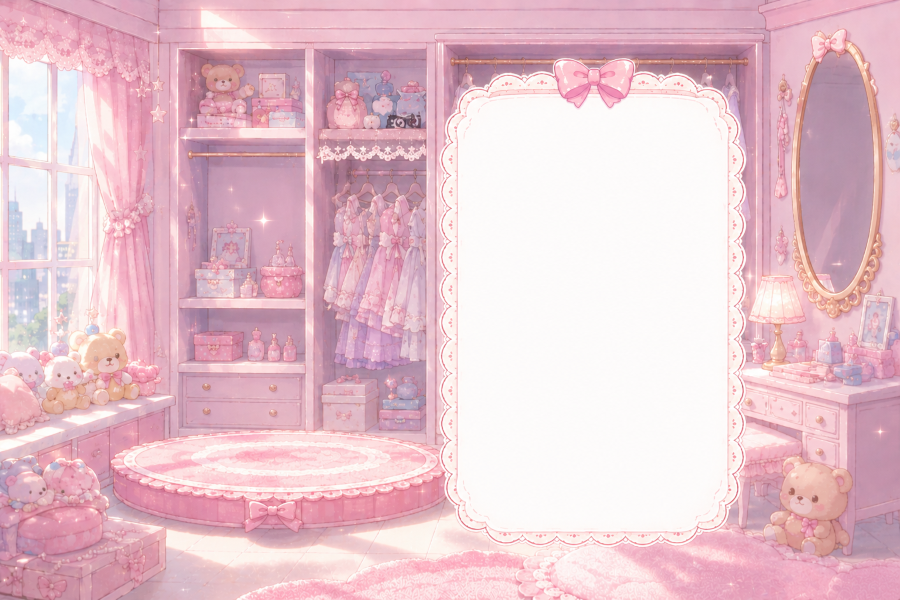
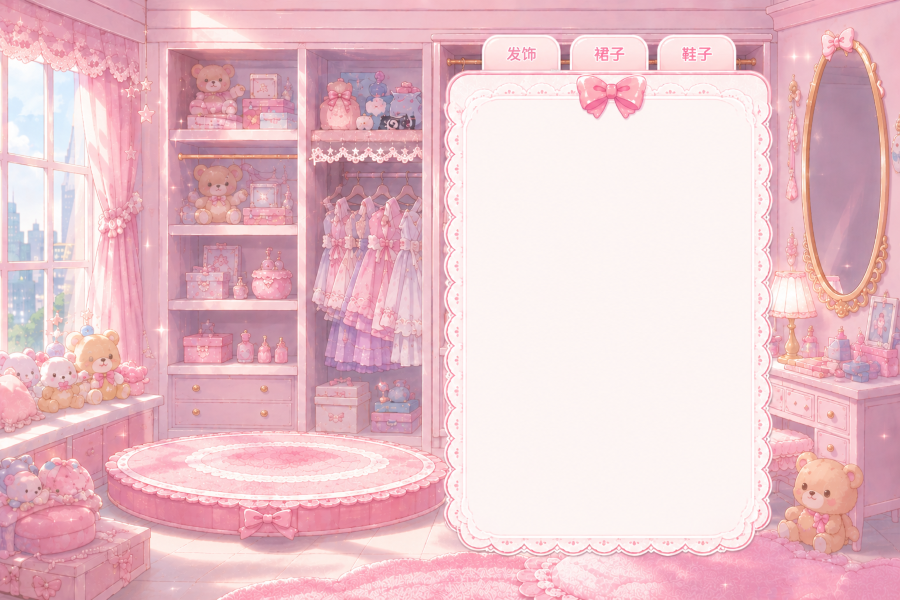
优化衣柜美观度

diff --git a/mainwindow.cpp b/mainwindow.cpp
@@ -40,29 +40,62 @@ MainWindow {
 
 
 
-    // 加深版衣柜磨砂（原始正常代码，恢复它！）
     ui->tabWidget->setStyleSheet(R"(
-    QTabWidget{background:transparent; border:none;}
-    QTabWidget::pane{
-        background:rgba(255,240,243,0.45);
-        border-radius:12px;
-        border:none;
-    }
-    QTabBar::tab{
-        background:transparent;
-        color:#d87093;
-        padding:7px 15px;
-        border:none;
-        border-radius:8px;
-        font-size:14px;
-    }
-    QTabBar::tab:selected{
-        background:rgba(255,179,190,0.75);
-        color:white;
-    }
-    QTabBar::tab:hover{
-        background:rgba(255,179,190,0.4);
-    }
+QTabWidget{
+    background:transparent;
+    border:none;
+}
+
+/* 衣柜面板 100% 透明，完美显示背景衣柜 */
+QTabWidget::pane{
+    background: transparent;
+    border: none;
+    margin-top: 8px;
+}
+
+QTabWidget::tab-bar {
+    subcontrol-origin: margin;
+    subcontrol-position: top;
+    left: -3px;       /* 【关键】数字越大，标签整体越往右！直接调这个！ */
+    top: 3px;         /* 上下位置微调，不用改也行 */
+}
+
+/* 标签整体位置：精准适配你的新背景 */
+QTabBar{
+    alignment: center;
+    margin-top: 9px;   /* 标签整体往上移，贴合背景 */
+    margin-left: 500px;
+
+    spacing: 100px;
+}
+
+/* 标签大小/样式：和背景完美匹配 */
+QTabBar::tab{
+    background:rgba(255,225,230,0.1);
+    color:#d87093;
+    border-radius: 18px;
+    min-width: 59px;   /* 宽度适配 */
+    max-width: 59px;
+    min-height: 27px;   /* 高度适配 */
+    margin-right: 0px; /* 间距适配 */
+    margin: 0 8px;
+    padding: 5px 10px;
+    font-size: 13px;
+    border:none;
+}
+
+QTabBar::tab:last-child{
+    margin-right: 0px;
+}
+
+QTabBar::tab:selected{
+    background:rgba(255,179,190,0.4);
+    color:white;
+}
+
+QTabBar::tab:hover{
+    background:rgba(255,179,190,0.2);
+}
 )");
 
     ui->scrollArea->setStyleSheet("background:transparent; border:none;");